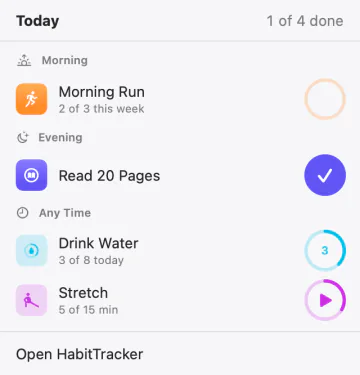
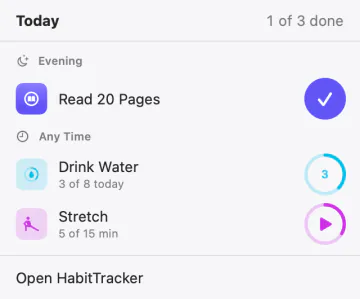
add a dark version of the mac images
The Mac's window and menu bar panel now follow the site's theme like the
iPhone's screens. They're drawn by a new method that opens nothing on the
screen, and it fixes the sidebar's colors in the light ones too: the
selected habit's check-in shows its check instead of a white circle, and
the arcs, tinted icons and priorities have their real colors. Spanish also
gets the new wording of the count.

diff --git a/fr/index.html b/fr/index.html
@@ -297,8 +297,8 @@
     <section id="mac">
       <div class="container split mac">
         <div class="mac-shots">
-          <img class="mac-window" src="../images/fr/mac-window.webp" alt="HabitTracker sur le Mac : la liste des habitudes dans une barre latérale, à côté des statistiques d'une habitude" width="1100" height="794" loading="lazy">
-          <img class="mac-menu" src="../images/fr/mac-menu-bar.webp" alt="Les habitudes du jour dans la barre des menus du Mac, avec les boutons pour valider et un minuteur" width="360" height="374" loading="lazy">
+          <picture><source media="(prefers-color-scheme: dark)" srcset="../images/fr/mac-window-dark.webp"><img class="mac-window" src="../images/fr/mac-window.webp" alt="HabitTracker sur le Mac : la liste des habitudes dans une barre latérale, à côté des statistiques d'une habitude" width="1100" height="794" loading="lazy"></picture>
+          <picture><source media="(prefers-color-scheme: dark)" srcset="../images/fr/mac-menu-bar-dark.webp"><img class="mac-menu" src="../images/fr/mac-menu-bar.webp" alt="Les habitudes du jour dans la barre des menus du Mac, avec les boutons pour valider et un minuteur" width="360" height="374" loading="lazy"></picture>
         </div>
         <div>
           <span class="eyebrow">Mac</span>

diff --git a/es/index.html b/es/index.html
@@ -297,8 +297,8 @@
     <section id="mac">
       <div class="container split mac">
         <div class="mac-shots">
-          <img class="mac-window" src="../images/es/mac-window.webp" alt="HabitTracker en el Mac: la lista de hábitos en una barra lateral, junto a las estadísticas de un hábito" width="1100" height="794" loading="lazy">
-          <img class="mac-menu" src="../images/es/mac-menu-bar.webp" alt="Los hábitos de hoy en la barra de menús del Mac, con los botones para registrar y un temporizador" width="360" height="374" loading="lazy">
+          <picture><source media="(prefers-color-scheme: dark)" srcset="../images/es/mac-window-dark.webp"><img class="mac-window" src="../images/es/mac-window.webp" alt="HabitTracker en el Mac: la lista de hábitos en una barra lateral, junto a las estadísticas de un hábito" width="1100" height="794" loading="lazy"></picture>
+          <picture><source media="(prefers-color-scheme: dark)" srcset="../images/es/mac-menu-bar-dark.webp"><img class="mac-menu" src="../images/es/mac-menu-bar.webp" alt="Los hábitos de hoy en la barra de menús del Mac, con los botones para registrar y un temporizador" width="360" height="374" loading="lazy"></picture>
         </div>
         <div>
           <span class="eyebrow">Mac</span>

diff --git a/it/index.html b/it/index.html
@@ -297,8 +297,8 @@
     <section id="mac">
       <div class="container split mac">
         <div class="mac-shots">
-          <img class="mac-window" src="../images/it/mac-window.webp" alt="HabitTracker sul Mac: l'elenco delle abitudini in una barra laterale, accanto alle statistiche di un'abitudine" width="1100" height="794" loading="lazy">
-          <img class="mac-menu" src="../images/it/mac-menu-bar.webp" alt="Le abitudini di oggi nella barra dei menu del Mac, con i pulsanti per il check-in e un timer" width="360" height="374" loading="lazy">
+          <picture><source media="(prefers-color-scheme: dark)" srcset="../images/it/mac-window-dark.webp"><img class="mac-window" src="../images/it/mac-window.webp" alt="HabitTracker sul Mac: l'elenco delle abitudini in una barra laterale, accanto alle statistiche di un'abitudine" width="1100" height="794" loading="lazy"></picture>
+          <picture><source media="(prefers-color-scheme: dark)" srcset="../images/it/mac-menu-bar-dark.webp"><img class="mac-menu" src="../images/it/mac-menu-bar.webp" alt="Le abitudini di oggi nella barra dei menu del Mac, con i pulsanti per il check-in e un timer" width="360" height="374" loading="lazy"></picture>
         </div>
         <div>
           <span class="eyebrow">Mac</span>

diff --git a/index.html b/index.html
@@ -315,8 +315,8 @@
     <section id="mac">
       <div class="container split mac">
         <div class="mac-shots">
-          <img class="mac-window" src="images/en/mac-window.webp" alt="HabitTracker on the Mac: the habit list in a sidebar, next to a habit's statistics" width="1100" height="794" loading="lazy">
-          <img class="mac-menu" src="images/en/mac-menu-bar.webp" alt="Today's habits in the Mac's menu bar, with check-in buttons and a timer" width="360" height="374" loading="lazy">
+          <picture><source media="(prefers-color-scheme: dark)" srcset="images/en/mac-window-dark.webp"><img class="mac-window" src="images/en/mac-window.webp" alt="HabitTracker on the Mac: the habit list in a sidebar, next to a habit's statistics" width="1100" height="794" loading="lazy"></picture>
+          <picture><source media="(prefers-color-scheme: dark)" srcset="images/en/mac-menu-bar-dark.webp"><img class="mac-menu" src="images/en/mac-menu-bar.webp" alt="Today's habits in the Mac's menu bar, with check-in buttons and a timer" width="360" height="374" loading="lazy"></picture>
         </div>
         <div>
           <span class="eyebrow">Mac</span>

diff --git a/src/pages/home.html b/src/pages/home.html
@@ -193,8 +193,8 @@
     <section id="mac">
       <div class="container split mac">
         <div class="mac-shots">
-          <img class="mac-window" src="{{images}}mac-window.webp" alt="{{mac_window_alt|attr}}" width="1100" height="794" loading="lazy">
-          <img class="mac-menu" src="{{images}}mac-menu-bar.webp" alt="{{mac_menu_alt|attr}}" width="360" height="374" loading="lazy">
+          <picture><source media="(prefers-color-scheme: dark)" srcset="{{images}}mac-window-dark.webp"><img class="mac-window" src="{{images}}mac-window.webp" alt="{{mac_window_alt|attr}}" width="1100" height="794" loading="lazy"></picture>
+          <picture><source media="(prefers-color-scheme: dark)" srcset="{{images}}mac-menu-bar-dark.webp"><img class="mac-menu" src="{{images}}mac-menu-bar.webp" alt="{{mac_menu_alt|attr}}" width="360" height="374" loading="lazy"></picture>
         </div>
         <div>
           <span class="eyebrow">Mac</span>

diff --git a/README.md b/README.md
@@ -74,7 +74,7 @@ The screens, in order: the habit list, Statistics, its charts (scrolled to the h
 - The Lock Screen is Notification Center, pulled down over the Home Screen: it looks the same and shows the timer's Live Activity, but with the phone unlocked. Locked, the simulator draws the countdown without its seconds ("9:––"), however the screen is woken. Its clock is the real time, since any `--time` override freezes the countdown too, and its date and Control Center are drawn by the system in the simulator's own language: for each language, set the simulator's first (`AppleLanguages` and `AppleLocale` in its `.GlobalPreferences.plist`, then a reboot). A timer's first Live Activity asks to be allowed, and later whether to keep allowing them: Allow, then Always Allow.
 - Control Center has the Habit Timer control, added by hand once (set to Next Timer, two columns wide so its name shows); the simulator's Control Center has nothing else.
 
-The Mac's, in `../assets/screenshots/<lang>/mac/`, are the window on Read 20 Pages' statistics and the menu bar's panel, drawn by the app itself in a light appearance by a temporary hook (as the app's CLAUDE.md describes for looking at a Mac view), so the window has no shadow or desktop around it. macOS 26's glass doesn't draw that way: the sidebar's list is drawn on its own and put in its place, and the glass behind it and behind the panel comes out transparent, so it's filled with light gray (`#F2F2F5` and `#F7F7F9`), as it looks on a light desktop. Drawn this way, some colors in the sidebar's list are wrong: progress arcs and tinted icons come out white, and so does the selected habit's check-in circle. That's the capture, not the app; a real screenshot would be more faithful.
+The Mac's, in `../assets/screenshots/<lang>/mac/` and `<lang>/mac-dark/`, are the window on Read 20 Pages' statistics and the menu bar's panel, drawn off screen by the app itself through a temporary hook (as the app's CLAUDE.md describes), so nothing opens on the screen and the window has no shadow or desktop around it. macOS 26's glass doesn't draw that way: the sidebar's list is drawn on its own and put in its place, and the glass behind it and behind the panel comes out transparent, so it's filled with gray, as it looks on a desktop: `#F2F2F5` and `#F7F7F9` in light, `#2C2C2E` and `#2A2A2C` in dark. One thing is still off: in the light window, the toolbar's sidebar button has a blank icon. The English week starts on Sunday, so on some days Morning Run is done for the week there and sits lower in the list than in the other languages.
 
 The pages show copies in WebP, which look the same as PNG at this size in about a fifteenth of the room, written by a script from those originals: the iPhone screenshots at half size (660 × 1434), the watch screenshots as they are, and the Mac's window 1100 wide and panel 360 wide. It needs `cwebp` (`brew install webp`):
 
